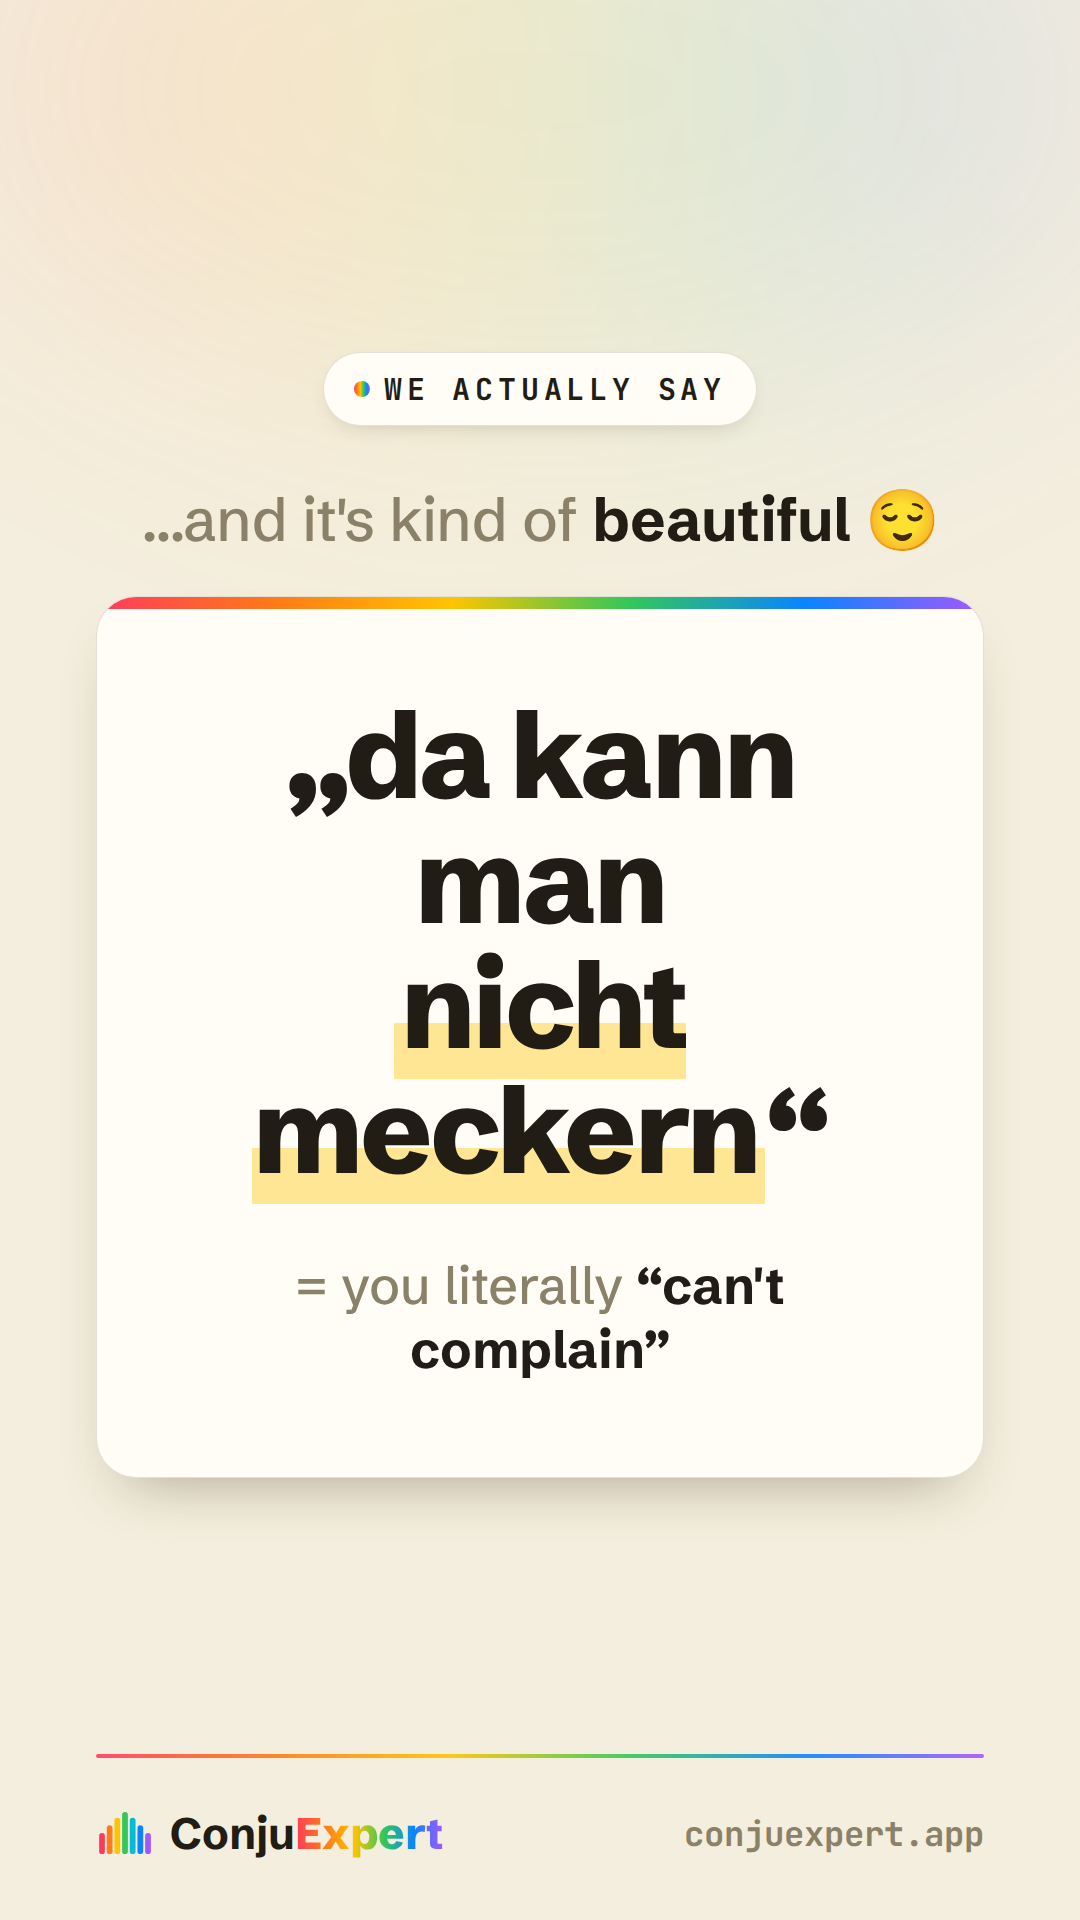
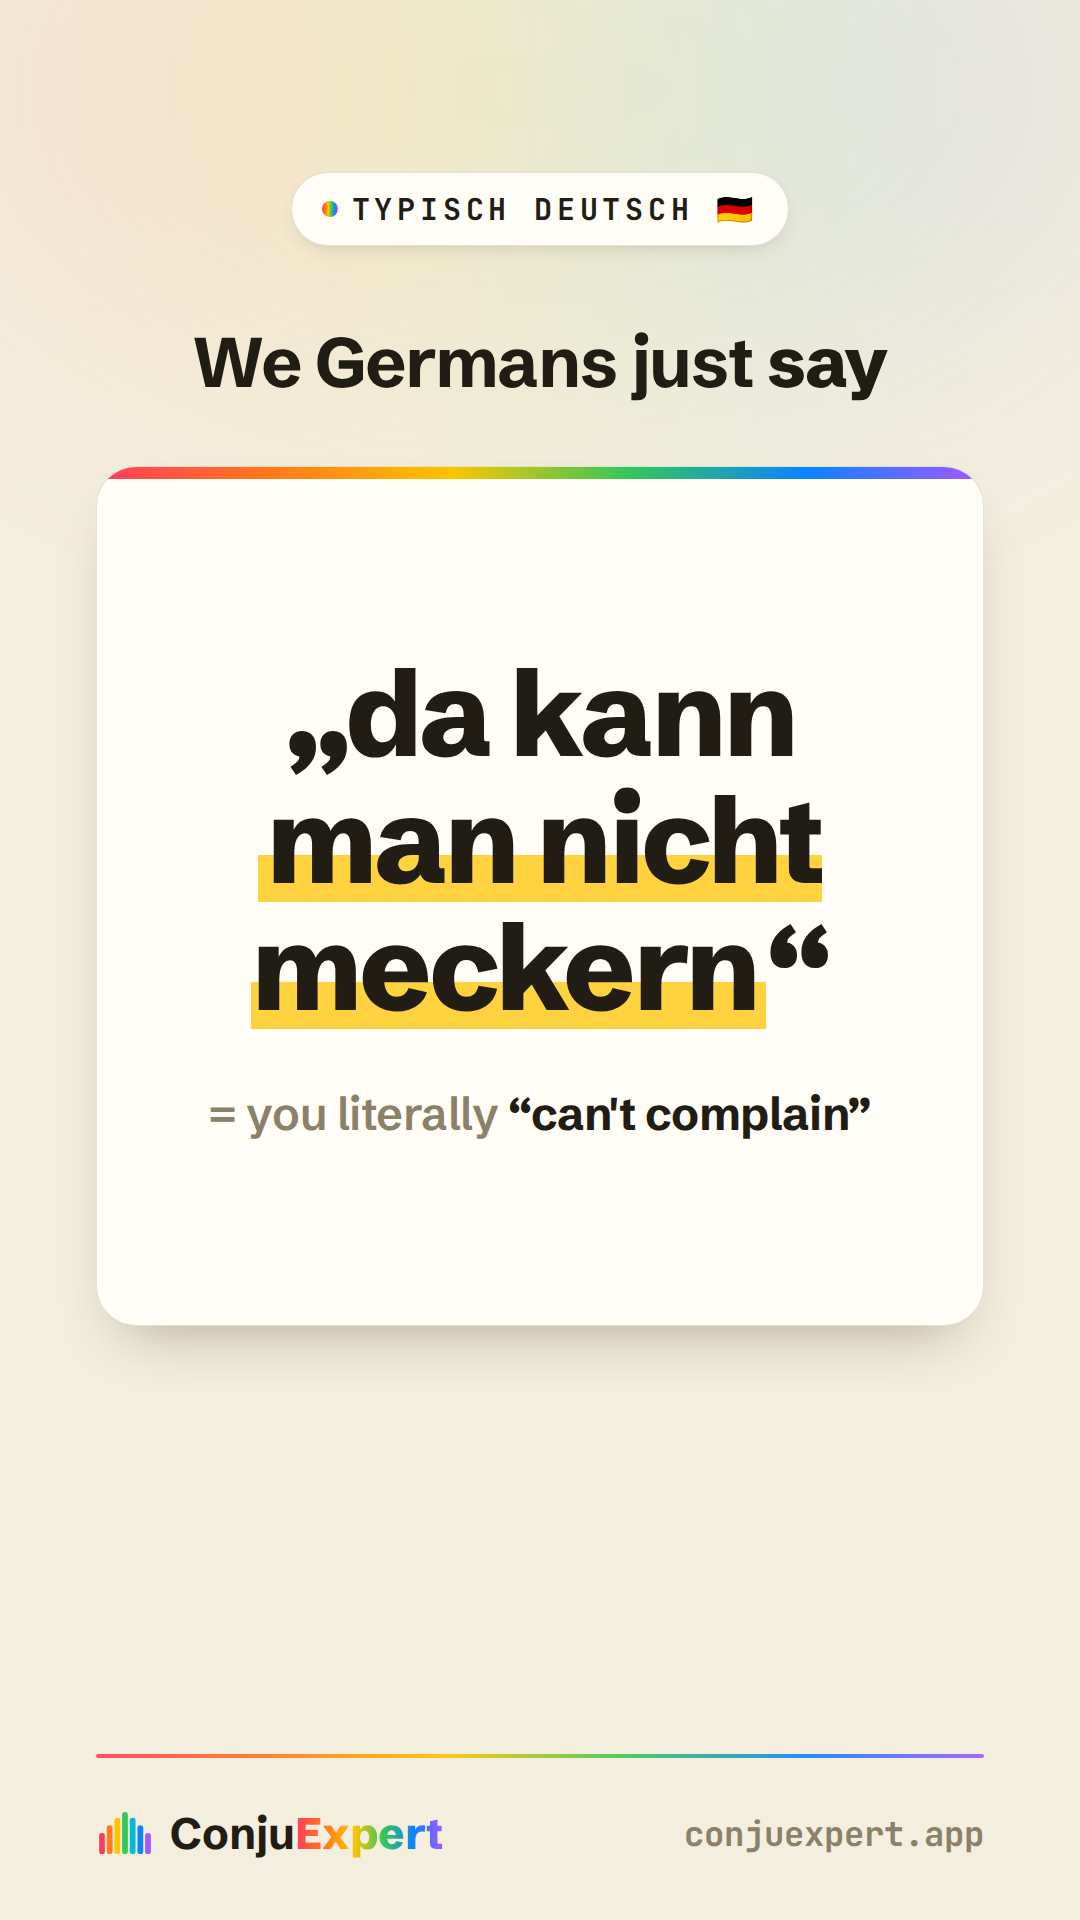
Typisch redesign: unify hook+payoff to shared card spec (identical size/position/type)
Claude-Session: https://claude.ai/code/session_012MsfUjoW2VLVF4WKvfLHyS

Changed region(s): [[0.0917, 0.1562, 0.9167, 0.625], [0.0917, 0.6562, 0.9167, 0.7812], [0.275, 0.0625, 0.7333, 0.125]]

diff --git a/scripts/social/typisch-deutsch/redesign/brand-hook.html b/scripts/social/typisch-deutsch/redesign/brand-hook.html
@@ -6,28 +6,20 @@
   --rainbow:linear-gradient(90deg,#ff3b5c,#ff7a18,#ffc400,#34c759,#0a84ff,#a557ff);
   --shadow:0 30px 60px -30px rgba(70,55,25,.42);--shadow-sm:0 8px 22px -12px rgba(70,55,25,.3)}
 *{margin:0;padding:0;box-sizing:border-box}
+/* ===== SHARED TYPISCH-CARD SPEC (identical in hook + payoff) ===== */
 #reel{position:relative;width:1080px;height:1920px;overflow:hidden;background:var(--bg);font-family:'SB',sans-serif}
-/* one subtle warm brand glow (premium, not aurora blobs) */
-.glow{position:absolute;top:-220px;left:50%;transform:translateX(-50%);width:1200px;height:620px;
-  background:var(--rainbow);filter:blur(150px);opacity:.10;border-radius:50%;z-index:0}
-.wrap{position:absolute;inset:0;z-index:2;display:flex;flex-direction:column;align-items:center;padding:150px 96px 0}
-/* signature eyebrow pill */
-.eyebrow{display:inline-flex;align-items:center;gap:14px;font-family:'JB';font-weight:700;font-size:30px;
-  letter-spacing:.16em;text-transform:uppercase;color:var(--ink);background:var(--surface);
-  border:1px solid var(--border);padding:16px 30px;border-radius:999px;box-shadow:var(--shadow-sm)}
+.glow{position:absolute;top:-220px;left:50%;transform:translateX(-50%);width:1200px;height:620px;background:var(--rainbow);filter:blur(150px);opacity:.10;border-radius:50%;z-index:0}
+.wrap{position:absolute;inset:0;z-index:2;display:flex;flex-direction:column;align-items:center;padding:172px 96px 0}
+.eyebrow{display:inline-flex;align-items:center;gap:14px;font-family:'JB';font-weight:700;font-size:30px;letter-spacing:.16em;text-transform:uppercase;color:var(--ink);background:var(--surface);border:1px solid var(--border);padding:16px 30px;border-radius:999px;box-shadow:var(--shadow-sm)}
 .eyebrow .dot{width:16px;height:16px;border-radius:50%;background:var(--rainbow)}
-.lead{margin-top:96px;font-family:'SB';font-weight:500;font-size:60px;color:var(--muted);text-align:center;letter-spacing:-.01em}
-.lead b{color:var(--ink);font-weight:700}
-/* premium sand card echoing the app's result card (rainbow top edge) */
-.card{position:relative;margin-top:44px;width:100%;background:var(--surface);border:1px solid var(--border);
-  border-radius:40px;box-shadow:var(--shadow);padding:92px 70px 84px;text-align:center;overflow:hidden}
+.lead{margin-top:78px;font-family:'SB';font-weight:700;font-size:70px;color:var(--ink);text-align:center;letter-spacing:-.02em;line-height:1.1;height:96px}
+.lead b{color:var(--red);font-weight:800}
+.card{position:relative;margin-top:46px;width:100%;height:860px;display:flex;flex-direction:column;align-items:center;justify-content:center;background:var(--surface);border:1px solid var(--border);border-radius:40px;box-shadow:var(--shadow);padding:0 66px;overflow:hidden}
 .card::before{content:"";position:absolute;top:0;left:0;right:0;height:12px;background:var(--rainbow)}
-.phrase{position:relative;display:inline-block;font-family:'SB';font-weight:800;font-size:126px;line-height:1;
-  letter-spacing:-.03em;color:var(--ink)}
-.phrase .strike{position:absolute;left:-6px;right:-6px;top:52%;height:13px;border-radius:8px;background:var(--red)}
-.sub{margin-top:56px;font-family:'JB';font-weight:700;font-size:34px;letter-spacing:.02em;color:var(--muted)}
-.sub .g{background:var(--rainbow);-webkit-background-clip:text;background-clip:text;color:transparent}
-/* bottom brand bar */
+.big{position:relative;display:inline-block;font-family:'SB';font-weight:800;font-size:120px;line-height:1.06;letter-spacing:-.03em;color:var(--ink)}
+.sub{margin-top:54px;font-family:'SB';font-weight:600;font-size:46px;color:var(--muted);text-align:center;letter-spacing:-.01em}
+.sub .g{background:var(--rainbow);-webkit-background-clip:text;background-clip:text;color:transparent;font-weight:800}
+.sub .q{color:var(--ink);font-weight:700}
 .foot{position:absolute;left:0;right:0;bottom:0;z-index:3;padding:52px 96px 60px;display:flex;align-items:center;justify-content:space-between}
 .foot::before{content:"";position:absolute;top:0;left:96px;right:96px;height:4px;background:var(--rainbow);border-radius:999px;opacity:.9}
 .logo{display:flex;align-items:center;gap:16px}
@@ -35,6 +27,8 @@
 .logo .w{font-family:'SB';font-weight:700;font-size:44px;color:var(--ink)}
 .logo .w b{background:var(--rainbow);-webkit-background-clip:text;background-clip:text;color:transparent}
 .url{font-family:'JB';font-weight:700;font-size:34px;color:var(--muted)}
+/* hook-specific: strike */
+.big .strike{position:absolute;left:-6px;right:-6px;top:52%;height:13px;border-radius:8px;background:var(--red)}
 </style></head>
 <body>
 <div id="reel">
@@ -43,7 +37,7 @@
     <div class="eyebrow"><span class="dot"></span>Typisch Deutsch 🇩🇪</div>
     <div class="lead">In Germany, <b>nobody</b> says</div>
     <div class="card">
-      <span class="phrase">&ldquo;well&nbsp;done&rdquo;<span class="strike"></span></span>
+      <span class="big">&ldquo;well&nbsp;done&rdquo;<span class="strike"></span></span>
       <div class="sub">…here's what we <span class="g">actually</span> say ↓</div>
     </div>
   </div>

diff --git a/scripts/social/typisch-deutsch/redesign/brand-payoff.html b/scripts/social/typisch-deutsch/redesign/brand-payoff.html
@@ -6,19 +6,20 @@
   --rainbow:linear-gradient(90deg,#ff3b5c,#ff7a18,#ffc400,#34c759,#0a84ff,#a557ff);
   --shadow:0 30px 60px -30px rgba(70,55,25,.42);--shadow-sm:0 8px 22px -12px rgba(70,55,25,.3)}
 *{margin:0;padding:0;box-sizing:border-box}
+/* ===== SHARED TYPISCH-CARD SPEC (identical in hook + payoff) ===== */
 #reel{position:relative;width:1080px;height:1920px;overflow:hidden;background:var(--bg);font-family:'SB',sans-serif}
 .glow{position:absolute;top:-220px;left:50%;transform:translateX(-50%);width:1200px;height:620px;background:var(--rainbow);filter:blur(150px);opacity:.10;border-radius:50%;z-index:0}
-.wrap{position:absolute;inset:0;z-index:2;display:flex;flex-direction:column;align-items:center;justify-content:center;padding:0 96px 90px}
+.wrap{position:absolute;inset:0;z-index:2;display:flex;flex-direction:column;align-items:center;padding:172px 96px 0}
 .eyebrow{display:inline-flex;align-items:center;gap:14px;font-family:'JB';font-weight:700;font-size:30px;letter-spacing:.16em;text-transform:uppercase;color:var(--ink);background:var(--surface);border:1px solid var(--border);padding:16px 30px;border-radius:999px;box-shadow:var(--shadow-sm)}
 .eyebrow .dot{width:16px;height:16px;border-radius:50%;background:var(--rainbow)}
-.lead{margin:56px 0 40px;font-family:'SB';font-weight:500;font-size:60px;color:var(--muted);letter-spacing:-.01em}
-.lead b{color:var(--ink);font-weight:700}
-.card{position:relative;width:100%;background:var(--surface);border:1px solid var(--border);border-radius:40px;box-shadow:var(--shadow);padding:96px 70px;text-align:center;overflow:hidden}
+.lead{margin-top:78px;font-family:'SB';font-weight:700;font-size:70px;color:var(--ink);text-align:center;letter-spacing:-.02em;line-height:1.1;height:96px}
+.lead b{color:var(--ink);font-weight:800}
+.card{position:relative;margin-top:46px;width:100%;height:860px;display:flex;flex-direction:column;align-items:center;justify-content:center;background:var(--surface);border:1px solid var(--border);border-radius:40px;box-shadow:var(--shadow);padding:0 66px;overflow:hidden}
 .card::before{content:"";position:absolute;top:0;left:0;right:0;height:12px;background:var(--rainbow)}
-.de{font-family:'SB';font-weight:800;font-size:120px;line-height:1.04;letter-spacing:-.03em;color:var(--ink)}
-.de .hl{background:linear-gradient(180deg,transparent 62%,#ffd23f88 62%);padding:0 6px}
-.mean{margin-top:60px;font-family:'SB';font-weight:500;font-size:52px;color:var(--muted)}
-.mean .q{color:var(--ink);font-weight:700}
+.big{position:relative;display:inline-block;font-family:'SB';font-weight:800;font-size:120px;line-height:1.06;letter-spacing:-.03em;color:var(--ink);text-align:center}
+.sub{margin-top:54px;font-family:'SB';font-weight:600;font-size:46px;color:var(--muted);text-align:center;letter-spacing:-.01em}
+.sub .g{background:var(--rainbow);-webkit-background-clip:text;background-clip:text;color:transparent;font-weight:800}
+.sub .q{color:var(--ink);font-weight:700}
 .foot{position:absolute;left:0;right:0;bottom:0;z-index:3;padding:52px 96px 60px;display:flex;align-items:center;justify-content:space-between}
 .foot::before{content:"";position:absolute;top:0;left:96px;right:96px;height:4px;background:var(--rainbow);border-radius:999px;opacity:.9}
 .logo{display:flex;align-items:center;gap:16px}
@@ -26,16 +27,18 @@
 .logo .w{font-family:'SB';font-weight:700;font-size:44px;color:var(--ink)}
 .logo .w b{background:var(--rainbow);-webkit-background-clip:text;background-clip:text;color:transparent}
 .url{font-family:'JB';font-weight:700;font-size:34px;color:var(--muted)}
+/* payoff-specific: highlighter */
+.big .hl{background:linear-gradient(180deg,transparent 60%,#ffd23f 60% 92%,transparent 92%);padding:0 8px;border-radius:2px}
 </style></head>
 <body>
 <div id="reel">
   <div class="glow"></div>
   <div class="wrap">
-    <div class="eyebrow"><span class="dot"></span>We actually say</div>
-    <div class="lead">…and it's kind of <b>beautiful</b> 😌</div>
+    <div class="eyebrow"><span class="dot"></span>Typisch Deutsch 🇩🇪</div>
+    <div class="lead">We Germans just <b>say</b></div>
     <div class="card">
-      <div class="de">&bdquo;da kann man<br><span class="hl">nicht meckern</span>&ldquo;</div>
-      <div class="mean">= you literally <span class="q">&ldquo;can't complain&rdquo;</span></div>
+      <span class="big">&bdquo;da kann<br><span class="hl">man nicht<br>meckern</span>&ldquo;</span>
+      <div class="sub">= you literally <span class="q">&ldquo;can't complain&rdquo;</span></div>
     </div>
   </div>
   <div class="foot">
